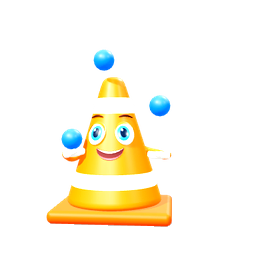
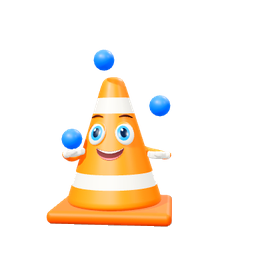
fix(loader): softer colour boost for cone animation (no brightness lift)

Changed region(s): [[0.1875, 0.2812, 0.6875, 0.9062], [0.3438, 0.1875, 0.4688, 0.2812], [0.5625, 0.375, 0.6562, 0.4375]]

diff --git a/tools/mascot/postprocess_webp.py b/tools/mascot/postprocess_webp.py
@@ -25,9 +25,9 @@ def fix(frame: Image.Image) -> Image.Image:
     img = Image.fromarray(np.dstack([rgb, al]).astype(np.uint8))
     r, g, b, alpha = img.split()
     c = Image.merge("RGB", (r, g, b))
-    c = ImageEnhance.Color(c).enhance(1.25)
-    c = ImageEnhance.Contrast(c).enhance(1.08)
-    c = ImageEnhance.Brightness(c).enhance(1.06)
+    # Gentle vibrance: richer colours without lifting highlights.
+    c = ImageEnhance.Color(c).enhance(1.18)
+    c = ImageEnhance.Contrast(c).enhance(1.03)
     return Image.merge("RGBA", (*c.split(), alpha))
 
 
